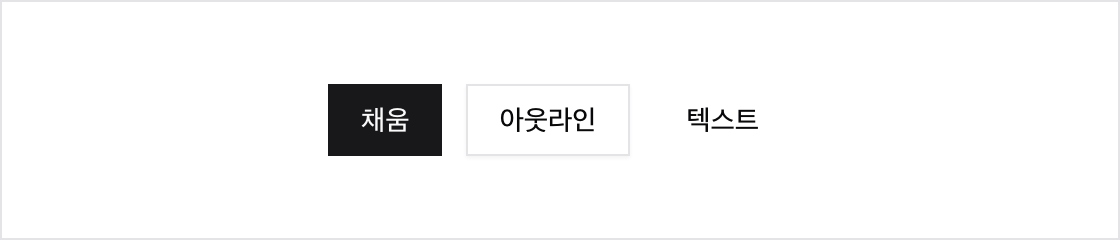
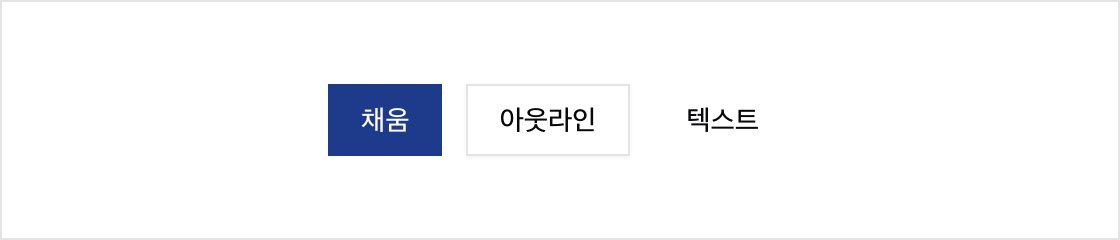
feat(365): 세션 직접 생성 체계 확정 — 1차 365 토큰·사용법 개편·CLAUDE.md 생성 계약
전략 확정(2026-08-10): 생성은 각자 Claude Code 세션(좌석 과금)에서 직접,
라이브 365 페이지는 카탈로그·리뷰 창구. FE는 읽기 전용 클론 — 결과물 로컬 보관.

- CLAUDE.md 생성 계약: 생성 전 git pull, 뼈대 우선·단일 파일 진화·재생성 금지,
  채택 어휘(approved.json)+365 토큰(ds365.json) 강제, 기본·빈·로딩·에러 4상태,
  어휘 밖은 자리표시+보고, 결과물 로컬 보관(갤러리 등재는 관리자 지시 시)
- 1차 365 토큰: primary #1e3a8a(다크 네이비)+ring, radius 0px 유지 —
  전 52 컴포넌트 365 렌더 재생성(shadcn365/), 카드 기본=365·hover=원형 항상 우선
- 06 페이지 생성 → 사용법 · 갤러리: 요청서 컴포저(업로드·복사) 제거,
  클론→실행→채팅 3단계 안내 + 대표 화면 갤러리(목록·뷰어 유지)
- 01 파이프라인 5단계 문구를 세션 직접 방식으로 갱신, 컴포저 전용 CSS/JS 정리

Changed region(s): [[0.2812, 0.35, 0.4062, 0.6708]]

diff --git a/playground/public/index.html b/playground/public/index.html
@@ -346,24 +346,6 @@
   .approve-bar .dirty { color: var(--ink); }
   .approve-bar button { margin-left: auto; }
   /* 페이지 생성 (파이프라인 5단계) */
-  .gen-drop { border: 1px dashed var(--line); padding: 26px 16px; cursor: pointer;
-    display: flex; flex-direction: column; align-items: center; gap: 6px; margin-bottom: 12px;
-    background-color: var(--bg);
-    background-image: radial-gradient(#d9d9d9 1px, transparent 1px); background-size: 8px 8px; }
-  .gen-drop.onover { border-color: var(--ink); }
-  .gen-drop .lb { font-family: var(--mono); font-size: 10px; letter-spacing: .08em; color: var(--muted);
-    background: var(--bg); border: 1px solid var(--line); padding: 3px 9px; }
-  .gen-drop .cap { font-size: 12px; color: var(--muted); background: var(--bg); }
-  .gen-filelist { display: flex; flex-wrap: wrap; gap: 6px; margin-bottom: 12px; }
-  .gen-filelist:empty { display: none; }
-  .gen-filelist .x { cursor: pointer; margin-left: 6px; }
-  #gen-req { width: 100%; font-family: var(--sans); font-size: 14px; line-height: 1.6;
-    padding: 12px; border: 1px solid var(--line); border-radius: var(--r-box);
-    resize: vertical; background: var(--bg); box-sizing: border-box; }
-  #gen-req:focus { outline: none; border-color: var(--muted); }
-  .gen-actions { display: flex; align-items: center; gap: 10px; margin-top: 10px; }
-  .gen-actions .chip { margin-left: auto; }
-  .gen-hint { font-family: var(--mono); font-size: 11px; color: var(--muted); }
   .gen-row { display: flex; align-items: center; gap: 12px; padding: 10px 0;
     border-bottom: 1px solid var(--line); cursor: pointer; }
   .gen-row:last-child { border-bottom: none; }
@@ -743,7 +725,7 @@
             <div class="k">4 채택 판정</div>
             <div class="v">03 카드에서 컴포넌트별 <strong>shadcn 채택</strong> 여부를 토글로 결정한다 — 채택되면 기본형 위에 값 조정·토큰을 얹고, 미채택이면 <strong>원본 디자인을 커스텀으로 재현</strong>한다(365 DS 섹션의 두 그룹). 결과는 <span class="mono">approved.json</span>으로 커밋되어 팀과 공유된다.</div>
             <div class="k">5 페이지 생성</div>
-            <div class="v"><strong>05 페이지 생성</strong>에서 요구사항을 쓰고 [생성 요청서 복사] — 승인 목록·계약이 포함된 요청서를 경로 1(Claude Code)·경로 2(claude.ai 팀 프로젝트)에 붙여넣으면 <strong>승인된 컴포넌트만으로</strong> 페이지가 생성되고, 커밋·배포되면 목록에 나타난다.</div>
+            <div class="v">저장소를 클론한 폴더에서 <strong>Claude Code 세션에 바로 채팅</strong>하면 된다 — CLAUDE.md 계약이 자동 적용되어, 시작 시 git pull로 최신 DS를 받고 <strong>채택 컴포넌트·365 토큰만으로</strong> 뼈대 페이지를 만들어 대화로 다듬는다(기본·빈·로딩·에러 4개 상태 포함). 결과물은 각자 로컬 보관 — 절차는 <strong>05 사용법 · 갤러리</strong> 참고.</div>
             <div class="k">6 365 브랜딩 <span class="chip">적용 예정</span></div>
             <div class="v">생성된 페이지를 미리보기 패널에서 확인하고 <strong>[365 DS 적용]</strong>으로 타이포·컬러·라운드 등 365 토큰을 입힌다. [shadcn]/[DS 적용] 탭으로 전환 비교, 우측에 HTML 코드 블록과 복사 버튼. 선행 조건: 365 토큰 값 정의(상태 색 도입 범위 포함).</div>
           </div>
@@ -931,29 +913,22 @@
       </section>
 
       <!-- 06 페이지 생성 -->
-      <section class="panel" data-full="1" data-title="페이지 생성">
-        <h3>요구사항</h3>
+      <section class="panel" data-full="1" data-title="사용법 · 갤러리">
+        <h3>사용법 — 세션에서 바로 생성</h3>
         <div class="card">
-          <div class="card-head"><span>새 페이지 요청</span></div>
-          <div class="card-body">
-            <div class="gen-drop" id="gen-drop">
-              <input type="file" id="gen-files" multiple accept="image/*,.html,.htm,.svg,.pdf" hidden>
-              <span class="lb">파일 업로드</span>
-              <span class="cap">클릭 또는 드래그 — 참고 스크린샷·와이어프레임·HTML (이미지, .html 등)</span>
-            </div>
-            <div class="gen-filelist" id="gen-filelist"></div>
-            <textarea id="gen-req" rows="5" placeholder="예: 호선 리스트 화면 — 검색·필터 툴바, 제품 칩이 있는 테이블, 페이지네이션. 상단에 페이지 헤더."></textarea>
-            <div class="gen-actions">
-              <span class="gen-hint" id="gen-hint"></span>
-              <button type="button" class="chip" id="gen-copy">생성 요청서 복사</button>
-            </div>
+          <div class="card-body kv">
+            <div class="k">1 클론 (최초 1회)</div>
+            <div class="v"><span class="mono">git clone github.com/younginsa/designsystemin.md</span> — 저장소 읽기 권한과 <strong>본인 계정으로 로그인한 Claude Code</strong>만 있으면 된다. 토큰은 각자 좌석에서 쓴다.</div>
+            <div class="k">2 폴더에서 실행</div>
+            <div class="v">클론한 폴더에서 <span class="mono">claude</span> 실행. 규칙(<span class="mono">CLAUDE.md</span>)·채택 어휘(<span class="mono">approved.json</span>)·365 토큰(<span class="mono">ds365.json</span>)이 자동 적용되고, 세션이 시작할 때 <span class="mono">git pull</span>로 항상 최신 DS를 받는다.</div>
+            <div class="k">3 채팅</div>
+            <div class="v">"재고 목록 화면 만들어줘" — 참고자료(스크린샷·HTML·문서)는 대화에 드래그하면 된다. <strong>뼈대가 먼저 나오고</strong>, 채팅으로 그 자리에서 다듬는다(재생성 없음). 모든 화면은 <strong>기본·빈·로딩·에러</strong> 4개 상태를 포함한다.</div>
+            <div class="k">결과물</div>
+            <div class="v">본인 로컬 <span class="mono">playground/app/generated/&lt;이름&gt;/</span>에 남는다 — 커밋하지 않고 각자 팀에서 활용한다. 채택 목록 밖 컴포넌트가 필요하면 세션이 만들지 않고 자리표시 후 보고한다.</div>
           </div>
         </div>
-        <p class="lead">복사한 요청서를 <strong>경로 1</strong>(Claude Code) 또는 <strong>경로 2</strong>(claude.ai 팀 프로젝트)에 붙여넣는다.
-        세션이 <strong>승인된 컴포넌트만으로</strong> <span class="mono">playground/app/generated/&lt;slug&gt;/page.tsx</span>를 생성하고
-        <span class="mono">pages.json</span>에 등록해 커밋하면, 배포 후 아래 목록에 나타난다.</p>
 
-        <h3>생성된 페이지</h3>
+        <h3>갤러리 — 대표 화면</h3>
         <div class="card">
           <div class="card-head"><span>목록</span></div>
           <div class="card-body" id="gen-list"></div>
@@ -1214,115 +1189,24 @@
     });
   })();
 
-  // ── 페이지 생성 (파이프라인 5단계) — 요청서 컴포저 + 생성 목록 ──
+  // ── 사용법 · 갤러리 — 대표 화면 목록 + 미리보기 ──
   (function(){
-    const ta = document.getElementById('gen-req');
-    if (!ta) return;
-    const DKEY = 'ds365-gen-draft';
-    ta.value = localStorage.getItem(DKEY) || '';
-    ta.addEventListener('input', () => localStorage.setItem(DKEY, ta.value));
-
-    // 파일 업로드 — 정적 페이지라 파일은 요청서에 이름으로 실리고, 세션에 함께 첨부한다
-    const drop = document.getElementById('gen-drop');
-    const fileInput = document.getElementById('gen-files');
-    const fl = document.getElementById('gen-filelist');
-    let files = [];
-    const addFiles = (fs) => {
-      fs.forEach((f) => { if (!files.some((x) => x.name === f.name && x.size === f.size)) files.push(f); });
-      renderFiles();
-    };
-    function renderFiles(){
-      fl.innerHTML = '';
-      files.forEach((f, i) => {
-        const c = document.createElement('span');
-        c.className = 'chip';
-        c.append(f.name + ' (' + Math.max(1, Math.round(f.size / 1024)) + 'KB)');
-        const x = document.createElement('span');
-        x.className = 'x'; x.textContent = '×';
-        x.addEventListener('click', () => { files.splice(i, 1); renderFiles(); });
-        c.appendChild(x);
-        fl.appendChild(c);
-      });
-    }
-    drop.addEventListener('click', () => fileInput.click());
-    fileInput.addEventListener('change', () => { addFiles([...fileInput.files]); fileInput.value = ''; });
-    drop.addEventListener('dragover', (e) => { e.preventDefault(); drop.classList.add('onover'); });
-    drop.addEventListener('dragleave', () => drop.classList.remove('onover'));
-    drop.addEventListener('drop', (e) => {
-      e.preventDefault(); drop.classList.remove('onover');
-      addFiles([...e.dataTransfer.files]);
-    });
-
-    const hint = document.getElementById('gen-hint');
-    const approvedRows = () => [...document.querySelectorAll('#doc-365 [data-comp]')]
-      .filter((c) => c.querySelector('.chip.approve')?.classList.contains('on'))
-      .map((c) => ({
-        slug: c.dataset.comp,
-        name: c.querySelector('.card-head span').textContent,
-        map: ([...c.querySelectorAll('.comp-chips .chip')].map(x => x.textContent)
-          .find(t => t.indexOf('shadcn:') === 0) || '').replace('shadcn: ', ''),
-      }));
-
-    function updateHint(){
-      const n = approvedRows().length;
-      hint.textContent = n ? '채택된 컴포넌트 ' + n + '종이 요청서에 포함된다' : '채택된 컴포넌트가 없다 — 03에서 먼저 shadcn 채택을 켜세요';
-    }
-    document.addEventListener('click', (e) => {
-      if (e.target.closest && e.target.closest('.chip.approve')) setTimeout(updateHint, 0);
-    });
-    setTimeout(updateHint, 900);
-
-    function compose(){
-      const rows = approvedRows();
-      const list = rows.map(r => '- ' + r.name + ' (' + r.slug + ')' + (r.map ? ' — shadcn: ' + r.map : '')).join('\n');
-      const attach = files.length
-        ? ['첨부 파일 ' + files.length + '건 — 이 요청과 함께 세션에 드래그해 첨부할 것:',
-           files.map((f) => '- ' + f.name + ' (' + Math.max(1, Math.round(f.size / 1024)) + 'KB)').join('\n'), '']
-        : [];
-      return [
-        '[HiNAS 365 페이지 생성 요청 — 파이프라인 5단계]',
-        '',
-        '요구사항:',
-        (ta.value.trim() || '(요구사항 미기재)'),
-        '',
-        ...attach,
-        '사용 가능 컴포넌트 (approved.json 승인분 — 이 외 사용 금지):',
-        (list || '(없음 — 생성 불가, 승인 먼저 요청)'),
-        '',
-        '계약:',
-        '1. CLAUDE.md의 페이지 생성 절차를 따른다 (regulations 검토 → design.md 로드 → self-check → dev 미리보기 → 승인 후 커밋).',
-        '2. 산출물: playground/app/generated/<slug>/page.tsx — @ds/ui 컴포넌트와 시맨틱 토큰만 사용.',
-        '3. playground/public/generated/pages.json 에 { "slug", "title", "requested"(1줄 요약), "created", "source" } 항목을 추가한다.',
-        '4. 승인 목록에 없는 컴포넌트가 필요하면 만들지 말고 먼저 보고한다.',
-      ].join('\n');
-    }
-
-    const btn = document.getElementById('gen-copy');
-    btn.addEventListener('click', async () => {
-      const text = compose();
-      sessionStorage.setItem('ds365-gen-last', text);
-      try { await navigator.clipboard.writeText(text); } catch (e) {
-        const tmp = document.createElement('textarea');
-        tmp.value = text; tmp.style.position = 'fixed'; tmp.style.opacity = '0';
-        document.body.appendChild(tmp); tmp.select();
-        document.execCommand && document.execCommand('copy');
-        tmp.remove();
-      }
-      btn.textContent = '복사됨 ✓';
-      setTimeout(() => { btn.textContent = '생성 요청서 복사'; }, 1400);
-    });
-
     const listBox = document.getElementById('gen-list');
+    if (!listBox) return;
     fetch('generated/pages.json').then(r => r.ok ? r.json() : []).catch(() => []).then((pages) => {
       if (!Array.isArray(pages) || !pages.length) {
-        listBox.innerHTML = '<div class="gen-empty">아직 생성된 페이지가 없다 — 위에서 첫 요청서를 만들어 세션에 붙여넣어 보세요.</div>';
+        listBox.innerHTML = '<div class="gen-empty">아직 전시된 화면이 없다 — 세션에서 만든 화면 중 대표작을 디자이너가 등재한다.</div>';
         return;
       }
       pages.forEach((pg) => {
+        const draft = pg.stage === 'draft';
         const row = document.createElement('div');
         row.className = 'gen-row';
-        row.innerHTML = '<span class="t"></span><span class="req"></span><span class="d"></span>';
+        row.innerHTML = '<span class="t"></span><span class="chip stage"></span><span class="req"></span><span class="d"></span>';
         row.querySelector('.t').textContent = pg.title || pg.slug;
+        const st = row.querySelector('.stage');
+        st.textContent = draft ? '다듬는 중' : '완성';
+        st.classList.toggle('p1', !draft);
         row.querySelector('.req').textContent = pg.requested || '';
         row.querySelector('.d').textContent = pg.created || '';
         row.addEventListener('click', () => {
@@ -1373,8 +1257,8 @@
       const card = document.createElement('div');
       card.className = 'card comp ds-card';
       card.dataset.slug = s.slug;
-      const e = entry(s.slug);
-      const rest365 = (e.render === 'done') ? 'shadcn365/' + s.slug + '.png' : s.pv;
+      // 365 렌더를 항상 우선 사용 — 파일이 없으면 onerror로 shadcn 원형 폴백
+      const rest365 = 'shadcn365/' + s.slug + '.png';
       const vis = adopted
         ? (s.pv ? '<div class="comp-vis"><img class="pv pv-rest" src="' + rest365 + '" alt="365 DS 적용">' +
                   '<img class="pv pv-hover" src="' + s.pv + '" alt="shadcn 원형"></div>'

diff --git a/CLAUDE.md b/CLAUDE.md
@@ -16,15 +16,25 @@
 AI 친화 디자인 시스템 저장소다.
 설계서: docs/superpowers/specs/2026-07-29-ai-design-system-design.md
 
-## 페이지 생성 요청을 받으면 (순서 고정)
+## 페이지 생성 요청을 받으면 (순서 고정 — 세션 직접 생성 계약)
 
+0. **최신화** — 생성 시작 전 반드시 `git pull` (원격 최신 DS·채택 목록 반영).
 1. **규정 검토** — `regulations/`에서 해당 제품 파일 확인. 충돌·주의사항이 있으면
    생성 전에 알리고 확인받는다. 파일이 없으면 한 줄 보고 후 진행.
-2. **규칙 로드** — `design.md` 전체를 읽는다.
-3. **생성** — `playground/app/<이름>/page.tsx`에 작성. `@ds/ui` 컴포넌트와 시맨틱 토큰만 사용.
+2. **규칙·어휘 로드** — `design.md` 전체 + `playground/public/approved.json`(채택 어휘)
+   + `playground/public/ds365.json`(365 토큰·조정값)을 읽는다.
+   **채택 어휘 밖 컴포넌트는 만들지 않는다** — 회색 점선 자리표시 + "미채택: <이름>" 라벨로
+   자리만 잡고 보고한다. 채택 목록이 비어 있으면 생성 불가로 답한다.
+3. **생성 — 뼈대 우선, 단일 파일 진화** — `playground/app/generated/<이름>/page.tsx` 하나를
+   만들고 끝까지 그 파일만 다듬는다. 첫 산출은 레이아웃·컴포넌트 배치 위주의 **뼈대**
+   (최대치 실행 금지). 이후 수정 요청은 **재생성 없이 해당 부분만 수술**한다.
+   모든 화면은 **기본·빈·로딩·에러** 4개 상태를 포함한다(추가 상태는 요청 시).
 4. **self-check** — 임의 값이 없는지 확인:
-   `grep -nE '#[0-9a-fA-F]{3,6}|-\[' playground/app/<이름>/page.tsx` → 결과 없어야 함.
+   `grep -nE '#[0-9a-fA-F]{3,6}|-\[' playground/app/generated/<이름>/page.tsx` → 결과 없어야 함.
 5. **미리보기** — `pnpm dev` 후 URL 안내.
+6. **결과물 취급** — 생성 페이지는 요청자 로컬 보관이 기본(커밋하지 않는다).
+   커밋·푸시와 갤러리(`playground/public/generated/pages.json`) 등재는
+   저장소 관리자(디자이너)가 지시할 때만 한다.
 6. **승인 후 커밋.**
 
 ## 금지
